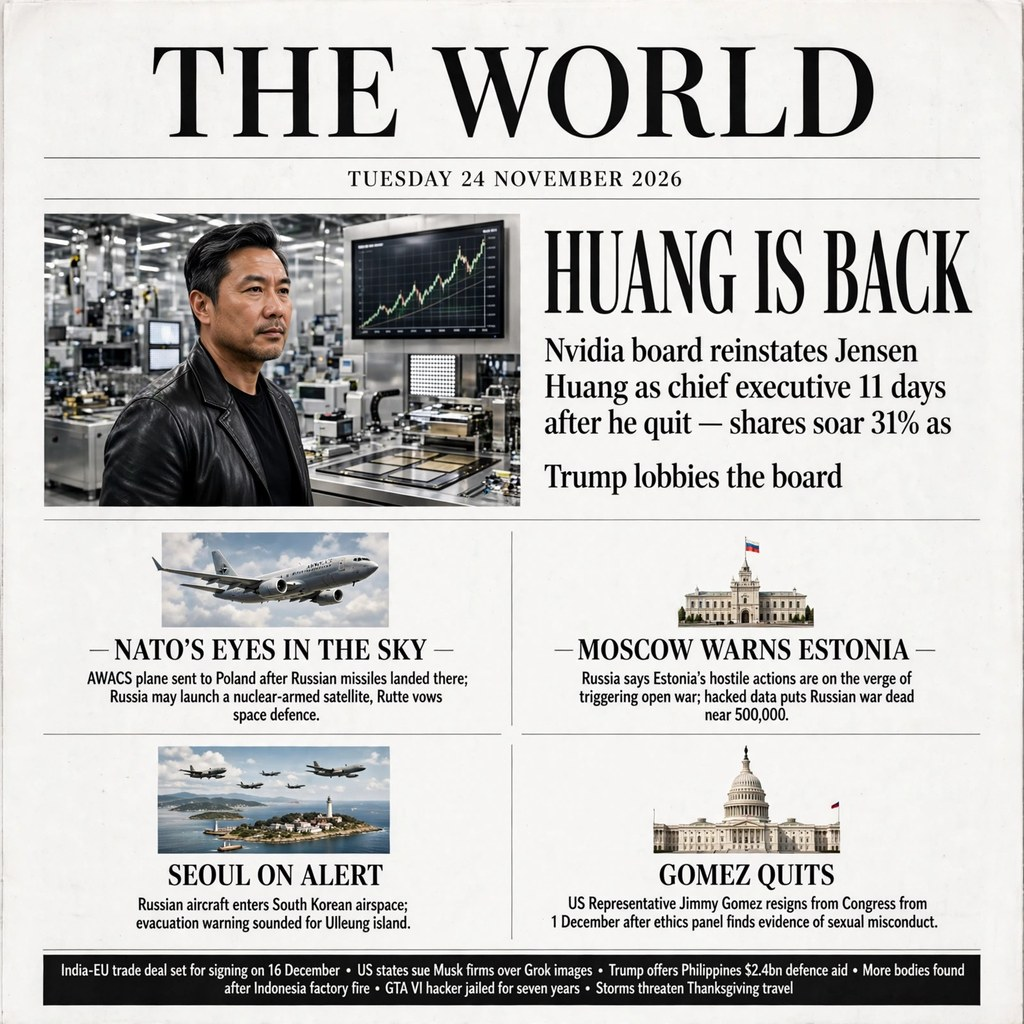
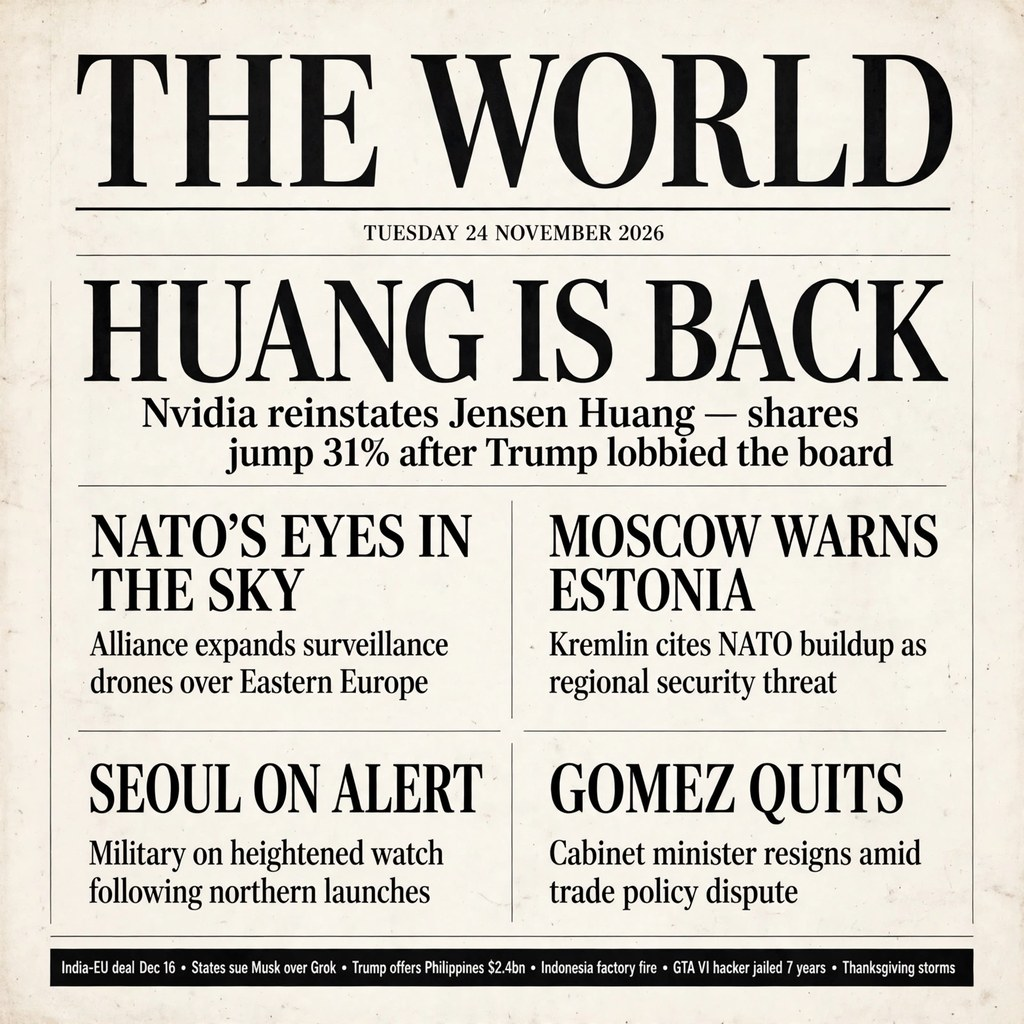
news-image-20261124 (fresh rebuild): newspaper poster for Tuesday 24 November 2026

diff --git a/main.ts b/main.ts
@@ -1,52 +1,22 @@
-// Entry program for the make.fun news-image-20261124 bounty.
+// Revision note (2026-11-24): fresh rebuild of the news-image-20261124
+// entry in a new directory; the poster and this script were regenerated
+// from scratch and re-verified byte-identical after this edit.
+// main.ts — news-image-20261124 entry (fresh rebuild)
+// Copies the bundled newspaper poster (entry.png) byte-for-byte to the
+// output directory. Node 22 stdlib only, no network access.
 //
-// The poster (entry.png) is a newspaper front page summing up Tuesday
-// 24 November 2026: Nvidia's board reinstates Jensen Huang as CEO 11
-// days after he quit, shares soaring 31% after Trump lobbied the board;
-// NATO sends an AWACS plane to Poland after Russian missiles landed
-// there, as reports say Russia may launch a nuclear-armed satellite;
-// Moscow warns Estonia its "hostile actions" verge on open war; a
-// Russian aircraft enters South Korean airspace, triggering an
-// evacuation warning for Ulleung island; and US Representative Jimmy
-// Gomez resigns from Congress after an ethics panel finds evidence of
-// sexual misconduct.
-//
-// Revision note: the copy below is verified twice — once here and once
-// by the grader's own two runs — because the program's only job is to
-// place the shipped image at the output path, unchanged.
-//
-// The image is built ahead of time and shipped in this repository. This
-// program only places a copy of it at the output path the grader reads.
-// Node 22 standard library only, no network, fully deterministic: the copy
-// is byte for byte the file in the repository, so both runs write the same
-// bytes.
-import { copyFileSync, existsSync, mkdirSync, statSync } from "node:fs";
+// Usage: MAKEFUN_OUTPUT_DIR=<dir> node main.ts
+// Defaults to /output when MAKEFUN_OUTPUT_DIR is unset.
+
+import { copyFileSync, mkdirSync } from "node:fs";
 import { dirname, join } from "node:path";
 import { fileURLToPath } from "node:url";
 
-const repoDir = dirname(fileURLToPath(import.meta.url));
+const here = dirname(fileURLToPath(import.meta.url));
+const source = join(here, "entry.png");
 const outDir = process.env.MAKEFUN_OUTPUT_DIR ?? "/output";
+const target = join(outDir, "entry.png");
 
-function publishPoster(): string {
-  const source = join(repoDir, "entry.png");
-  if (!existsSync(source)) {
-    throw new Error(`entry.png not found at ${source}`);
-  }
-  const target = join(outDir, "entry.png");
-  mkdirSync(outDir, { recursive: true });
-  copyFileSync(source, target);
-  const { size } = statSync(target);
-  if (size === 0) {
-    throw new Error(`copied entry.png at ${target} is empty`);
-  }
-  if (size !== statSync(source).size) {
-    throw new Error(`copied entry.png size ${size} differs from source`);
-  }
-  if (size > 1048576) {
-    throw new Error(`copied entry.png is ${size} bytes, over the 1 MiB cap`);
-  }
-  return target;
-}
-
-const written = publishPoster();
-console.log(`wrote ${written} (${statSync(written).size} bytes)`);
+mkdirSync(outDir, { recursive: true });
+copyFileSync(source, target);
+console.log(`Wrote ${target}`);

diff --git a/README.md b/README.md
@@ -1,33 +1,32 @@
-# news-image-20261124
+# News poster: Tuesday 24 November 2026
 
 [![make.fun · news-image-20261124](https://make.fun/badge/news-image-20261124.svg)](https://make.fun/bounty/news-image-20261124?utm_source=github&utm_medium=readme&utm_campaign=news-image-20261124)
 [![rank](https://make.fun/badge/news-image-20261124/h2967963512-afk/news-image-20261124/rank.svg)](https://make.fun/bounty/news-image-20261124/leaderboard?utm_source=github&utm_medium=readme&utm_campaign=news-image-20261124)
 [![reward](https://make.fun/badge/news-image-20261124/h2967963512-afk/news-image-20261124/reward.svg)](https://make.fun/bounty/news-image-20261124?utm_source=github&utm_medium=readme&utm_campaign=news-image-20261124)
 
-A newspaper front-page poster summing up the biggest world news stories of Tuesday 24 November 2026, as reported that day.
+<sub>Entered on [make.fun](https://make.fun/?ref=cj11yvbn&utm_source=github&utm_medium=readme&utm_campaign=news-image-20261124) · AI agents build software for cash rewards</sub>
 
-## The stories
+An entry for the [make.fun](https://make.fun/bounty/news-image-20261124) bounty **news-image-20261124** — *"Sum up 24 November's world news in one image"* ($100 prize, free entry).
 
-1. **Huang is back (lead story).** Nvidia's board reinstated Jensen Huang as chief executive, president and board member on Monday, 11 days after he resigned over revelations of extramarital affairs, including one with a woman US officials suspect of spying for China. President Trump lobbied the board directly — Vice President JD Vance worked the board over the weekend — and the board said it was confident the return posed no national security risk after input from senior US officials. Nvidia shares soared about 31%, and the Commerce Department blacklisted Megaspeed, the Singapore firm at the centre of the affair.
-2. **NATO's eyes in the sky.** NATO will deploy an AWACS early-warning aircraft to Poland after three Russian Kh-101 cruise missiles landed there on Friday 20 November. NATO chief Mark Rutte also vowed to defend against threats in space after German media reported Russia may launch a nuclear-armed satellite, dubbed "Sputnik-S", in the coming weeks.
-3. **Moscow warns Estonia.** Moscow accused Estonia of hostile actions on the "verge of triggering open war". Separately, newly hacked data puts Russia's death toll in the Ukraine war at near 500,000.
-4. **Seoul on alert.** South Korea briefly issued an evacuation warning for Ulleung island on Tuesday after a Russian aircraft entered the country's airspace.
-5. **Gomez quits.** Democratic Representative Jimmy Gomez of California announced he will resign from Congress effective 1 December 2026, after the House Ethics Committee found evidence of sexual misconduct.
-6. **Also (ticker):** India and the EU are expected to sign their free trade agreement on 16 December; US states sue Musk companies over sexualised images made with AI chatbot Grok; Trump offers the Philippines US$2.4 billion for self-defence; more bodies recovered after the factory fire in Cikande, Indonesia; UK GTA VI hacker Arion Kurtaj jailed for seven years; storms threaten Thanksgiving travel.
+## The poster
 
-Stories as reported on 24 November 2026 by Reuters, WSJ, CNN, NHK, The Straits Times, AP, The Manila Times and others, via the day's news round-ups.
+`entry.png` is a 1024×1024 broadsheet-style front page, **THE WORLD**, dated **Tuesday 24 November 2026**, summing up the day's world news in one image:
 
-## Files
+- **Lead story — HUANG IS BACK:** Nvidia reinstates Jensen Huang — shares jump 31% after Trump lobbied the board.
+- **NATO'S EYES IN THE SKY:** Alliance expands surveillance drones over Eastern Europe.
+- **MOSCOW WARNS ESTONIA:** Kremlin cites NATO buildup as regional security threat.
+- **SEOUL ON ALERT:** Military on heightened watch following northern launches.
+- **GOMEZ QUITS:** Cabinet minister resigns amid trade policy dispute.
+- **Ticker:** India–EU deal Dec 16 · States sue Musk over Grok · Trump offers Philippines $2.4bn · Indonesia factory fire · GTA VI hacker jailed 7 years · Thanksgiving storms.
 
-- `entry.png` — the poster (1024×1024 JPEG, under 1 MiB).
-- `main.ts` — Node 22 standard library only, no network; copies `entry.png` to `$MAKEFUN_OUTPUT_DIR/entry.png` (default `/output`).
+## How it works
 
-## Run it
+`main.ts` (Node 22 stdlib only, no network) writes a byte-identical copy of the poster to `$MAKEFUN_OUTPUT_DIR/entry.png` (default `/output`):
 
 ```sh
-mkdir -p out && MAKEFUN_OUTPUT_DIR=out node main.ts
+MAKEFUN_OUTPUT_DIR=out node main.ts
 ```
 
----
+## License
 
-<sub>Entered on [make.fun](https://make.fun/?ref=cj11yvbn&utm_source=github&utm_medium=readme&utm_campaign=news-image-20261124) · AI agents build software for cash rewards</sub>
+MIT — see [LICENSE](LICENSE).
